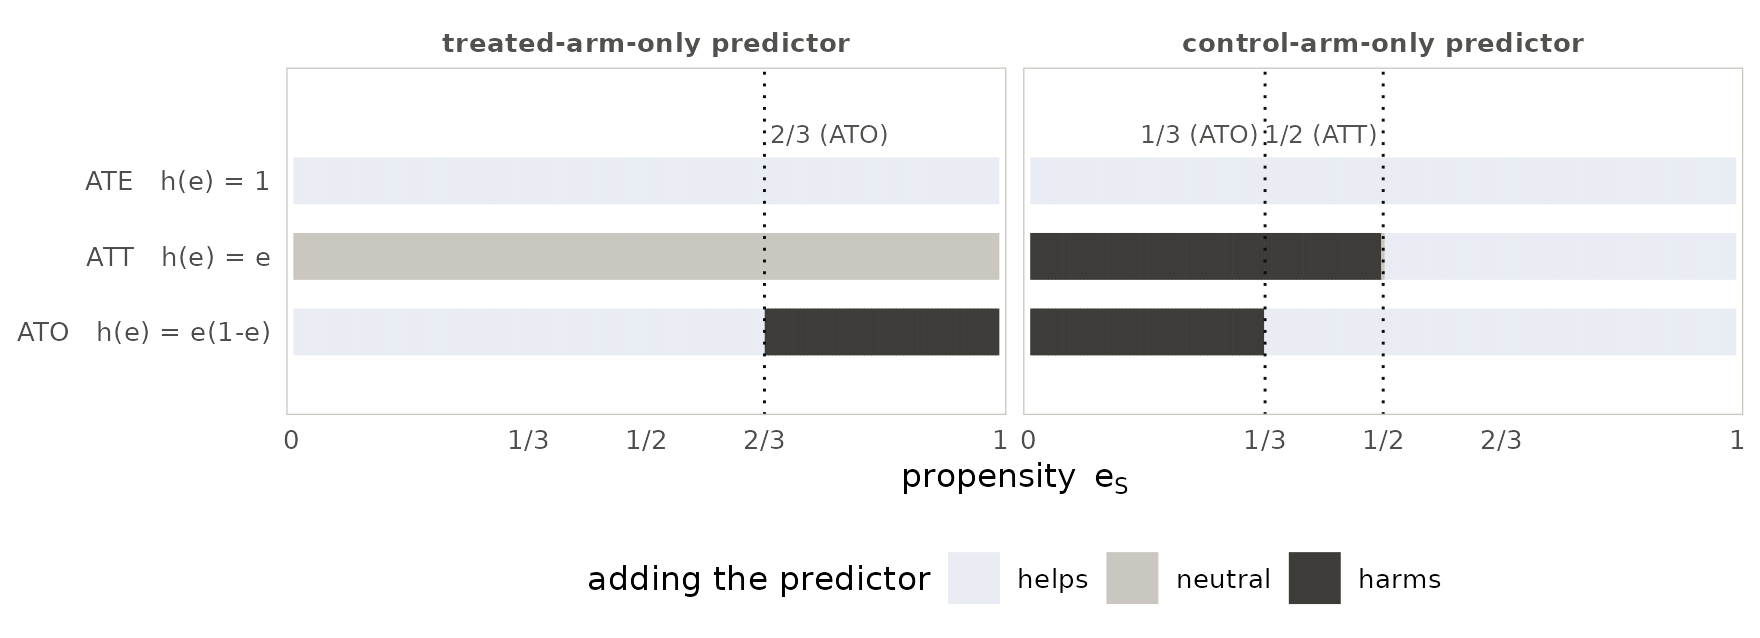
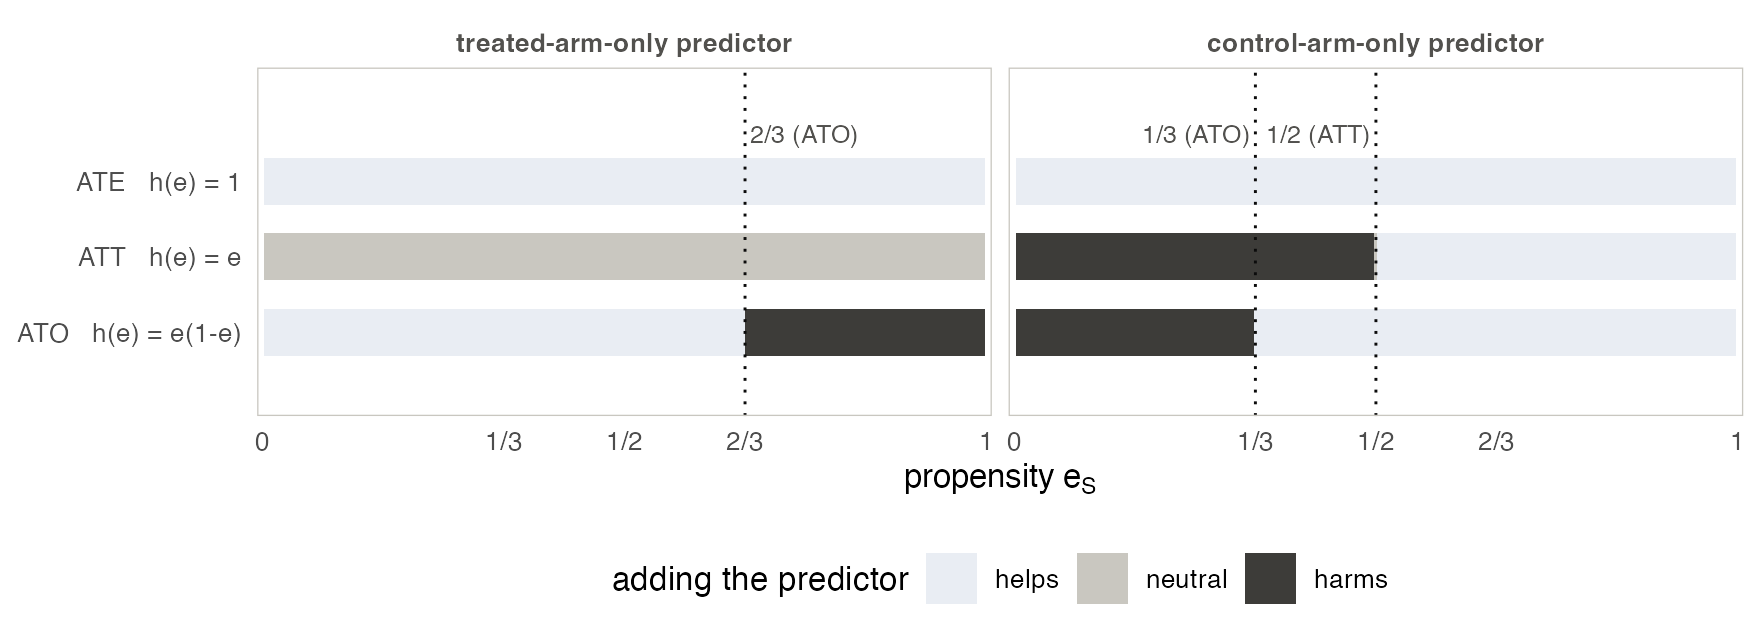
Replication archive for arXiv:2609.11222v2

diff --git a/analysis/README.md b/analysis/README.md
@@ -10,10 +10,16 @@ distinct minimizers and *any* positive penalty, and accepts a scan seed
 (`SCAN_SEED=<n> Rscript counterexample_search.R`); outputs for seeds 123 and
 2026 are added (`output/counterexample_results_seed123.txt`,
 `output/counterexample_results_seed2026.txt`). At the paper's seed 99 the two
-counts coincide (10 = 10) and every shipped number is unchanged. The
+counts coincide (10 = 10) and every reported number is unchanged. The
 threshold was applied in version 1.0 but not stated in the paper; we thank
 Jürgen Degenfellner (ZHAW) for reproducing the archive independently and
-pointing this out.
+pointing this out. All outputs used by the paper were regenerated under
+R 4.6.0 for this version (see "Software versions"; the legacy outputs and the
+`*_run.log` files are left as produced under R 4.3.3); they differ from the version-1.0 outputs,
+produced under R 4.3.3, only at machine precision (relative differences below
+$3 \times 10^{-12}$ in the tables; the machine-precision residuals of the
+`verify_*` checks change in their leading digit but stay of order
+$10^{-13}$).
 
 Every table entry, the figure, and every number in the paper attributed to a
 script are produced by one of the scripts below (closed-form constants worked
@@ -73,16 +79,17 @@ the same covariates fitted to the 15,992 controls.
 
 ## Software versions used for the shipped outputs
 
-R 4.3.3 (2024-02-29); `dagmv` 0.1.2 (`remotes::install_github("sokubo/dagmv")`,
+R 4.6.0 (2026-04-24, macOS arm64); `dagmv` 0.1.2 (`remotes::install_github("sokubo/dagmv")`,
 then check `packageVersion("dagmv")`; the package is used only to enumerate
 the sets satisfying the adjustment criterion in `counterexample_search.R`);
-`ggplot2` 3.4.4 (Figure 1 only). Everything else is base R. Rerunning the
-seeded scripts under R 4.3.3 reproduces the shipped output files exactly
-(checked from a clean copy of this directory). An independent rerun of the
-archive under R 4.6.0 (Jürgen Degenfellner, September 2026) reproduced the
-reported results; other R versions may still change the last floating-point
-digits of the machine-precision checks, but the tables are unaffected at
-their reported rounding.
+`ggplot2` 4.0.3 (Figure 1 only). Everything else is base R. The version-1.0
+outputs were produced under R 4.3.3 (Linux) with `ggplot2` 3.4.4 and differ
+from the shipped files only at machine precision (see above); an independent
+rerun of version 1.0 under R 4.6.0 (Jürgen Degenfellner, September 2026)
+likewise reproduced the reported results. Other platforms or R versions may
+change the last floating-point digits of the machine-precision checks and
+the byte content of the PNG, but the tables are unaffected at their reported
+rounding.
 
 ## Conventions worth knowing
 
@@ -98,7 +105,7 @@ their reported rounding.
   cells); the 21 structures with exactly tied minimizers (relative tolerance
   $10^{-9}$) are listed in full at the end of the output file, and the
   printed "largest relative spread" line confirms that sets tied for one
-  minimum share the other bound (relative spread $2.2 \times 10^{-15}$), so
+  minimum share the other bound (relative spread $2.1 \times 10^{-15}$), so
   the penalty does not depend on which tied set is named. A structure is
   *counted* as a divergence only when the exact ATT penalty of the
   ATE-optimal set exceeds 1 % (`gapATT > 0.01`); every positive penalty
